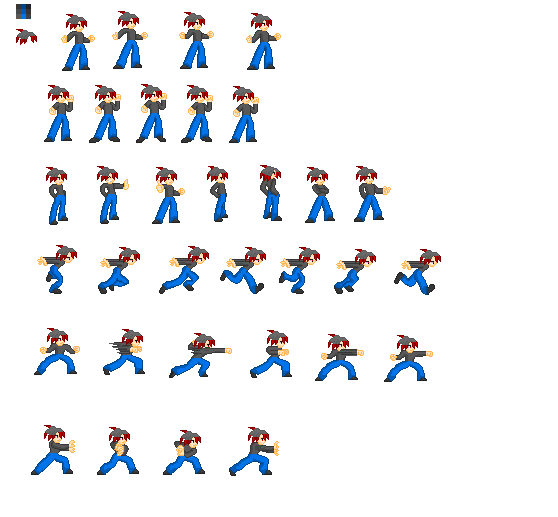
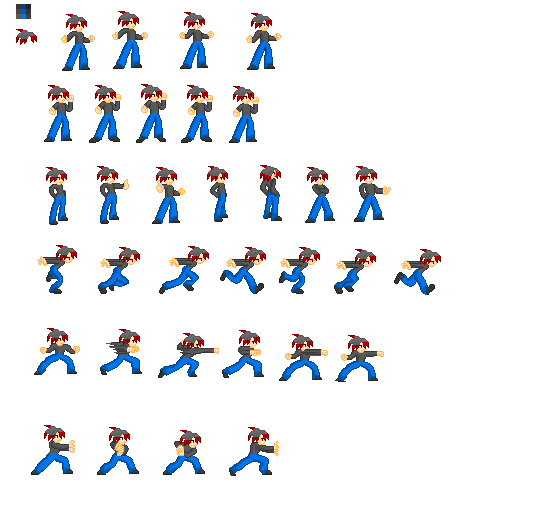
Attack Animation

Changed region(s): [[0.1828, 0.619, 0.7921, 0.7427]]

diff --git a/MonsterGenome/Character.cpp b/MonsterGenome/Character.cpp
@@ -82,6 +82,24 @@ using namespace sf;
         }
     }
 
+    void Character::checkMeleeHit(vector<Character*>& players){
+        for(int i=1; i < players.size(); i++){
+            if((players[i]->getEnemy() != this->ene) && sprite.getGlobalBounds().intersects(players[i]->getSprite().getGlobalBounds())){
+                if(players[i]->getAttack()){
+                    this->health -= 10;
+                }
+            }
+        }
+    }
+
+    void Enemy::checkMeleeHit(vector<Character*>& players){
+        if((players[0]->getEnemy() != this->ene) && sprite.getGlobalBounds().intersects(players[0]->getSprite().getGlobalBounds())){
+            if(players[0]->getAttack()){
+                this->health -= 10;
+            }
+        }
+    }
+
     void Character::flip(Sprite& sprite){
         sprite.setOrigin({ sprite.getGlobalBounds().width/2.0f, 0});
         sprite.setScale({ pow(-1, int(!faceright)) , 1 });
@@ -96,24 +114,45 @@ using namespace sf;
         }
     }
 
+    void Character::mAnimation(){
+        if(sprite.getTextureRect().top != 325 || sprite.getTextureRect().left == 336){
+            sprite.setTextureRect(IntRect(36, 325, 50, 60));
+        }
+        else{
+            sprite.setTextureRect(IntRect(sprite.getTextureRect().left+60, sprite.getTextureRect().top, 50, 60));   
+            if(sprite.getTextureRect().left == 156 || sprite.getTextureRect().left == 336){
+                this->punch = false;
+                this->atk = true;
+            }           
+        }
+    }
+
     void Character::setAnimation(){
         bool noaction = true;
         if(timepass <= 0){
-            if(Keyboard::isKeyPressed(Keyboard::Left) || Keyboard::isKeyPressed(Keyboard::Right)){
+            if(Keyboard::isKeyPressed(Keyboard::X) || this->punch){
+                this->punch = true;
+                noaction = false;
+                mAnimation();   
+            }
+            else{
+                if(Keyboard::isKeyPressed(Keyboard::Left) || Keyboard::isKeyPressed(Keyboard::Right)){
                 hAnimation();
                 noaction = false;
+                }
+                if(Keyboard::isKeyPressed(Keyboard::Up) & !jumping){
+                    noaction = false;
+                }
+                //Unfinsihed, will be ducking or something
+                if(Keyboard::isKeyPressed(Keyboard::Down)){
+                    //noaction = false;
+                }
+                //Attacking
+                if(Keyboard::isKeyPressed(Keyboard::Z)){
+                    noaction = false;
+                }
             }
-            if(Keyboard::isKeyPressed(Keyboard::Up) & !jumping){
-                noaction = false;
-            }
-            //Unfinsihed, will be ducking or something
-            if(Keyboard::isKeyPressed(Keyboard::Down)){
-                //noaction = false;
-            }
-            //Attacking
-            if(Keyboard::isKeyPressed(Keyboard::Z)){
-                noaction = false;
-            }
+            
             timepass = .1;
             if(noaction){
                 sprite.setTextureRect(IntRect(57, 11, 53, 60));
@@ -125,20 +164,27 @@ using namespace sf;
     void Enemy::setAnimation(vector<int>& actions){
         bool noaction = true;
         if(timepass <= 0){
-            if(actions[0] || actions[1]){
+            if(actions[5] || this->punch){
+                this->punch = true;
+                noaction = false;
+                mAnimation();
+            }
+            else{
+                if(actions[0] || actions[1]){
                 hAnimation();
                 noaction = false;
-            }
-            if(actions[2] & !jumping){
-                noaction = false;
-            }
-            //Unfinsihed, will be ducking or something
-            if(actions[3]){
-                //noaction = false;
-            }
-            //Attacking
-            if(actions[4]){
-                //noaction = false;
+                }
+                if(actions[2] & !jumping){
+                    noaction = false;
+                }
+                //Unfinsihed, will be ducking or something
+                if(actions[3]){
+                    //noaction = false;
+                }
+                //Attacking
+                if(actions[4]){
+                    //noaction = false;
+                }
             }
             timepass = .1;
             if(noaction){
@@ -148,7 +194,8 @@ using namespace sf;
         flip(sprite);
     }
 
-    void Character::updatePosition(vector<Platforms*>& borders, vector<Projectile*>& proj, Time& timein, RenderWindow& window){
+    void Character::updatePosition(vector<Platforms*>& borders, vector<Projectile*>& proj, vector<Character*>& players, Time& timein, RenderWindow& window){
+            this->atk = false;
             //Gravity and collision when jumpin
             float time = timein.asSeconds();
             weapontimer = weapontimer - time;
@@ -157,41 +204,49 @@ using namespace sf;
 
             sprite.move(Vector2f(0, jumpvel * time));
             
-            //Moving Left and Right with Collision
-            if(Keyboard::isKeyPressed(Keyboard::Left)){
-                faceright = false;
-                sprite.move(Vector2f(-1.f * horizontalvel * time, 0));
-            }
-            else if(Keyboard::isKeyPressed(Keyboard::Right)){
-                faceright = true;
-                sprite.move(Vector2f(horizontalvel * time, 0));
-            }
-            if(Keyboard::isKeyPressed(Keyboard::Up) & !jumping){
-                jumping = true;
-                jumpvel = -400.f;
-                sprite.move(Vector2f(0, jumpvel * time));
-            }
-            //Unfinsihed, will be ducking or something
-            if(Keyboard::isKeyPressed(Keyboard::Down)){
+            if(Keyboard::isKeyPressed(Keyboard::X)){
                 
             }
-            //Attacking
-            if(Keyboard::isKeyPressed(Keyboard::Z)){
-                attack(proj, Mouse::getPosition(window));
+            else{
+                //Moving Left and Right with Collision
+                if(Keyboard::isKeyPressed(Keyboard::Left)){
+                    faceright = false;
+                    sprite.move(Vector2f(-1.f * horizontalvel * time, 0));
+                }
+                else if(Keyboard::isKeyPressed(Keyboard::Right)){
+                    faceright = true;
+                    sprite.move(Vector2f(horizontalvel * time, 0));
+                }
+                if(Keyboard::isKeyPressed(Keyboard::Up) & !jumping){
+                    jumping = true;
+                    jumpvel = -400.f;
+                    sprite.move(Vector2f(0, jumpvel * time));
+                }
+                //Unfinsihed, will be ducking or something
+                if(Keyboard::isKeyPressed(Keyboard::Down)){
+                    
+                }
+                //Attacking
+                if(Keyboard::isKeyPressed(Keyboard::Z)){
+                    attack(proj, Mouse::getPosition(window));
+                }
             }
             sprite.move(Vector2f(vertadd * time, horizadd * time));
             checkCollison(borders);
             checkProjectile(proj);
+            checkMeleeHit(players);
             setAnimation();
     }
 
-    void Enemy::updatePosition(vector<Platforms*>& borders, vector<Projectile*>& proj, Time& timein, RenderWindow& window){
+    void Enemy::updatePosition(vector<Platforms*>& borders, vector<Projectile*>& proj, vector<Character*>& players, Time& timein, RenderWindow& window){
+            this->atk = false; 
+
             float time = timein.asSeconds();
             actionstime -= time;
             actions[2] = 0;
             if(actionstime <= 0){
                 actions.clear();
-                for(int i = 0; i < 5; i++){
+                for(int i = 0; i < 6; i++){
                     int ran = rand() % 2;
                     actions.push_back(ran);
                 }
@@ -204,36 +259,50 @@ using namespace sf;
             jumpvel += 1100.f * time; // Vertical Acceleration 
 
             sprite.move(Vector2f(0, jumpvel * time));
-            
-            //Moving Left and Right with Collision
-            if(actions[0]){
-                faceright = false;
-                sprite.move(Vector2f(-1.f * horizontalvel * time, 0));
+            if(actions[5]){
+
             }
-            else if(actions[1]){
-                faceright = true;
-                sprite.move(Vector2f(horizontalvel * time, 0));
+            else{
+                //Moving Left and Right with Collision
+                if(actions[0]){
+                    faceright = false;
+                    sprite.move(Vector2f(-1.f * horizontalvel * time, 0));
+                }
+                else if(actions[1]){
+                    faceright = true;
+                    sprite.move(Vector2f(horizontalvel * time, 0));
+                }
+                if(actions[2] & !jumping){
+                    jumping = true;
+                    jumpvel = -400.f;
+                    sprite.move(Vector2f(0, jumpvel * time));
+                }
+                //Unfinsihed, will be ducking or something
+                if(actions[3]){
+                    
+                }
+                //Attacking
+                if(actions[4]){
+                    attack(proj, Mouse::getPosition(window));
+                }
             }
-            if(actions[2] & !jumping){
-                jumping = true;
-                jumpvel = -400.f;
-                sprite.move(Vector2f(0, jumpvel * time));
-            }
-            //Unfinsihed, will be ducking or something
-            if(actions[3]){
-                
-            }
-            //Attacking
-            if(actions[4]){
-                attack(proj, Mouse::getPosition(window));
-            }
+            sprite.move(Vector2f(vertadd * time, horizadd * time));
             checkCollison(borders);
             checkProjectile(proj);
+            checkMeleeHit(players);
             setAnimation(actions);
     }
 
     Sprite& Character::getSprite(){
         return this->sprite;
+    }
+
+    bool Character::getAttack(){
+        return this->atk;
+    }
+
+    bool Character::getEnemy(){
+        return this->ene;
     }
 
     void Character::attack(vector<Projectile*>& proj, Vector2i loc){

diff --git a/MonsterGenome/Character.h b/MonsterGenome/Character.h
@@ -15,6 +15,8 @@ class Character{
         int strength;
         int vitality;
         bool jumping;
+        bool punch = false;
+        bool atk = false;
         bool faceright = true;
         float jumpvel;
         float horizontalvel;
@@ -37,13 +39,17 @@ class Character{
     void checkCollison(vector<Platforms*>& borders);
     void removeCollision(Platforms* borders, FloatRect& intersection);
     void checkProjectile(vector<Projectile*>& proj);
-    virtual void updatePosition(vector<Platforms*>& borders, vector<Projectile*>& proj, Time& time, RenderWindow& window);
+    virtual void checkMeleeHit(vector<Character*>& players);
+    virtual void updatePosition(vector<Platforms*>& borders, vector<Projectile*>& proj,vector<Character*>& players, Time& time, RenderWindow& window);
     void attack(vector<Projectile*>& borders, Vector2i loc);
     virtual void setAnimation();
     void flip(Sprite& sprite);
     void hAnimation();
+    void mAnimation();
     void setAdditions(float v, float h);
     Sprite& getSprite();
+    bool getAttack();
+    bool getEnemy();
 };
 
 class Hero : public Character {
@@ -58,10 +64,11 @@ private:
     int ID;
     int xpDrop;
     float actionstime = 0;
-    vector<int> actions{0,0,0,0,0};
+    vector<int> actions{0,0,0,0,0,0};
     public:
 
     Enemy();
-    void updatePosition(vector<Platforms*>& borders, vector<Projectile*>& proj, Time& time, RenderWindow& window);
+    void updatePosition(vector<Platforms*>& borders, vector<Projectile*>& proj, vector<Character*>& players, Time& time, RenderWindow& window);
     void setAnimation(vector<int>& actions);
+    void checkMeleeHit(vector<Character*>& players);
 };

diff --git a/MonsterGenome/Game.cpp b/MonsterGenome/Game.cpp
@@ -30,7 +30,7 @@ void Game::PollGame(RenderWindow &window, Time& time) {
         borders[i]->update(time);
     }
     for(int i = 0; i < players.size(); i++){
-        players[i]->updatePosition(borders, projs, time, window);
+        players[i]->updatePosition(borders, projs, players, time, window);
     }
 }
 
